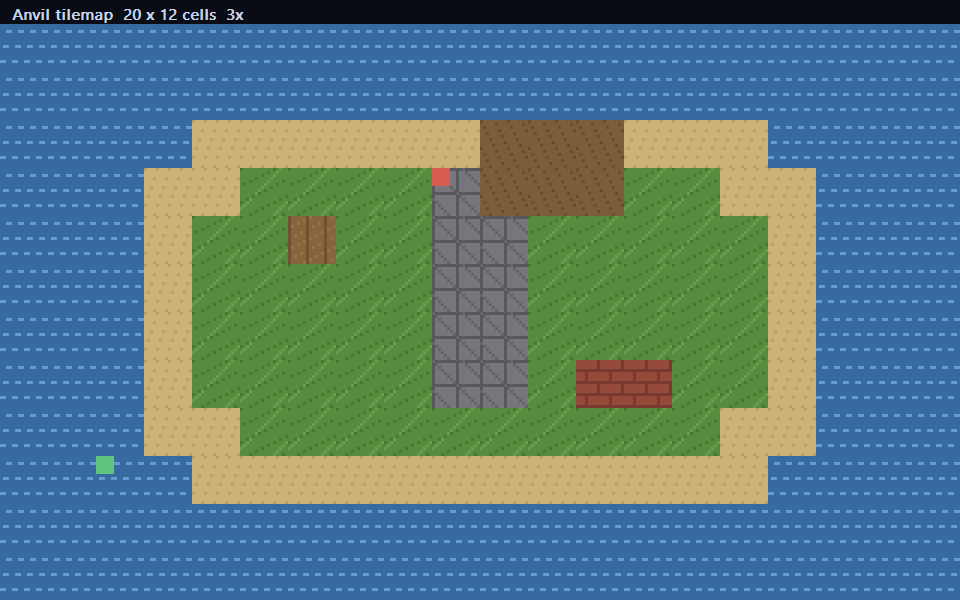
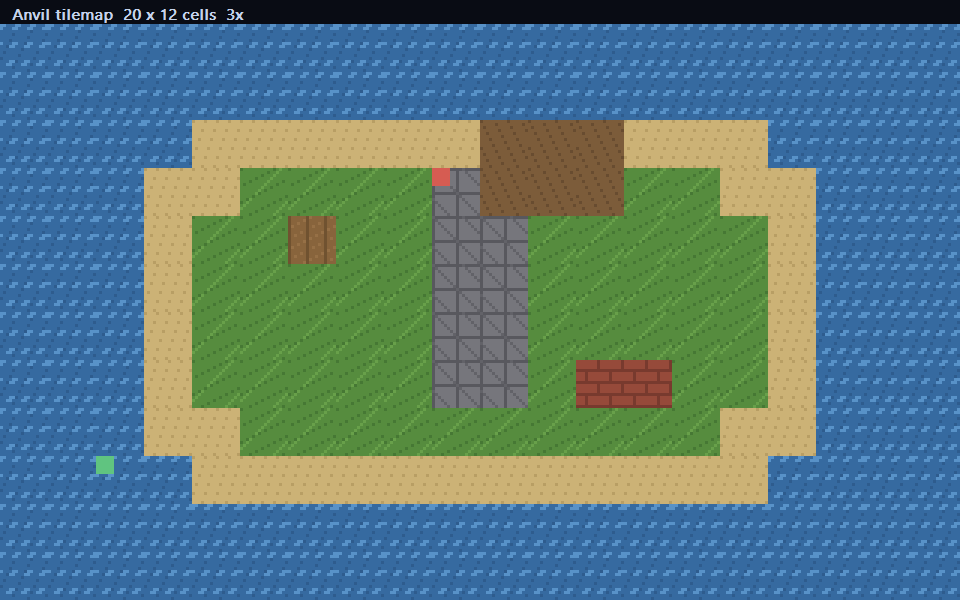
Animate tiles by row-wrapping within the tileset (8.14)

Changed region(s): [[0.0, 0.03, 1.0, 0.99]]

diff --git a/vscode-extension/scripts/validate.js b/vscode-extension/scripts/validate.js
@@ -161,6 +161,7 @@ async function main() {
   expect('set map = tilemap_new(sheet, 16, 16, 20, 12)', 'tilemap_new', 'support.function.anvil');
   expect('say tilemap_collide(map, 0, 0, 8, 8, 1)', 'tilemap_collide', 'support.function.anvil');
   expect('set ok = tilemap_solid(map, 3, 1)', 'tilemap_solid', 'support.function.anvil');
+  expect('set ok = tilemap_animate(map, 16, 2, 0.8)', 'tilemap_animate', 'support.function.anvil');
   expect('set var(ok) = shadow(1)', 'shadow', 'support.function.anvil');
   expect('set var(size) = 1.8', '1.8', 'constant.numeric.float.anvil');
   expect('set var(size) = 18', '18', 'constant.numeric.integer.anvil');

diff --git a/tests/test_tilemap.py b/tests/test_tilemap.py
@@ -232,6 +232,77 @@ EXPECTED_COLLISION = [
     "cell -1",
 ]
 
+ANIMATION_PROGRAM = "\n".join(
+    (
+        "fn(main)",
+        '  set var(sheet) = image_load("tiles.bmp")',
+        "  set var(map) = tilemap_new(var(sheet), 8, 8, 4, 3)",
+        # A tiny frame rate pins frame 0, so the headless values are stable.
+        "  say tilemap_animate(var(map), 3, 2, 0.000001)",
+        '  say "frame " & tilemap_frame(var(map), 3)',
+        '  say "frame " & tilemap_frame(var(map), 0)',
+        "  say tilemap_animate(var(map), 3, 0, 6)",
+        "  say tilemap_animate(var(map), 3, 5, 6)",
+        "  say tilemap_animate(var(map), 70, 2, 6)",
+        "  say tilemap_animate(var(map), -1, 2, 6)",
+        "  say tilemap_animate(var(map), 3, 2, 0)",
+        "  say tilemap_animate(var(map), 3, 1, 6)",
+        '  say "frame " & tilemap_frame(var(map), 3)',
+        "  say tilemap_free(var(map))",
+        '  say "frame " & tilemap_frame(var(map), 3)',
+        "end",
+        "call fn(main)",
+        "",
+    )
+)
+
+EXPECTED_ANIMATION = [
+    "1",
+    "frame 3",
+    "frame 0",
+    "0",
+    "0",  # five frames do not fit a four-tile row
+    "0",
+    "0",
+    "0",
+    "1",
+    "frame 3",
+    "1",
+    "frame -1",
+]
+
+ANIMATED_DRAW_PROGRAM = "\n".join(
+    (
+        "scene 2d",
+        "clear rgba(0, 0, 0, 255)",
+        'set var(sheet) = image_load("tiles.bmp")',
+        "set var(map) = tilemap_new(var(sheet), 8, 8, 1, 1)",
+        "set var(ok) = tilemap_set(var(map), 0, 0, 3)",
+        # One frame per second, two frames: white (tile 3) at t<1, then the
+        # row wraps to red (tile 0) from t>=1.
+        "set var(anim) = tilemap_animate(var(map), 3, 2, 1)",
+        "set var(frame) = 0",
+        "set var(early) = -1",
+        "set var(late) = -1",
+        "",
+        "fn(draw)",
+        "  add var(frame) 1",
+        "  set var(drawn) = tilemap_draw(var(map), 0, 0, 8)",
+        "  if var(frame) = 5",
+        "    set var(cap) = frame_capture()",
+        "    set var(early) = image_pixel(var(cap), 10, 10)",
+        "  end",
+        "  if var(frame) = 75",
+        "    set var(cap) = frame_capture()",
+        "    set var(late) = image_pixel(var(cap), 10, 10)",
+        '    say "early " & var(early)',
+        '    say "late " & var(late)',
+        "  end",
+        "end",
+        "",
+    )
+)
+
 class TilemapDrawTests(unittest.TestCase):
     def test_cells_land_on_the_expected_pixels(self) -> None:
         with tempfile.TemporaryDirectory(ignore_cleanup_errors=True) as temp:
@@ -318,6 +389,52 @@ class TilemapCollisionTests(unittest.TestCase):
             combined = build.stdout + build.stderr
             self.assertIn("'tilemap_collide' is not available in the wasm backend yet", combined)
             self.assertIn(":3:", combined)
+
+
+
+class TilemapAnimationTests(unittest.TestCase):
+    def test_animation_bounds_and_disabling(self) -> None:
+        with tempfile.TemporaryDirectory(ignore_cleanup_errors=True) as temp:
+            root = pathlib.Path(temp)
+            executable = build(root, ANIMATION_PROGRAM, "anim")
+            run = subprocess.run(
+                [str(executable)], cwd=root, capture_output=True, text=True, timeout=60
+            )
+            self.assertEqual(run.returncode, 0, run.stderr)
+            self.assertEqual(run.stdout.splitlines(), EXPECTED_ANIMATION)
+
+    def test_the_current_frame_is_drawn_and_wraps_at_the_row_end(self) -> None:
+        with tempfile.TemporaryDirectory(ignore_cleanup_errors=True) as temp:
+            root = pathlib.Path(temp)
+            executable = build(root, ANIMATED_DRAW_PROGRAM, "animdraw")
+            process = subprocess.Popen(
+                [str(executable)],
+                cwd=root,
+                stdout=subprocess.PIPE,
+                stderr=subprocess.PIPE,
+                text=True,
+            )
+            lines: list[str] = []
+            assert process.stdout is not None
+            deadline = time.monotonic() + 60
+            try:
+                for line in process.stdout:
+                    lines.append(line.rstrip("\r\n"))
+                    if line.startswith("late") or time.monotonic() > deadline:
+                        break
+            finally:
+                process.kill()
+                process.wait(timeout=30)
+            values: dict[str, int] = {}
+            for line in lines:
+                key, _, value = line.partition(" ")
+                if key in ("early", "late"):
+                    values[key] = int(float(value))
+            self.assertEqual(sorted(values), ["early", "late"], lines)
+            # Frame 5 is under one second: the base tile, white.
+            self.assertEqual(values["early"] & 0xFFFFFF, WHITE)
+            # Frame 75 is past one second: frame 1 wraps to tile 0, red.
+            self.assertEqual(values["late"] & 0xFFFFFF, RED)
 
 
 

diff --git a/runtime/anvil_runtime.c b/runtime/anvil_runtime.c
@@ -1695,6 +1695,8 @@ typedef struct {
   int tiles_per_row;
   int *cells;
   unsigned char *solid; /* bitset of solid tile indices, allocated on demand */
+  unsigned short *anim_frames; /* per-tile frame count, 0 = not animated */
+  float *anim_fps;
 } AnvilTilemap;
 
 static AnvilTilemap anvil_tilemaps[ANVIL_TILEMAPS];
@@ -1796,6 +1798,8 @@ double anvil_tilemap_free(double handle) {
     return 0.0;
   free(map->cells);
   free(map->solid);
+  free(map->anim_frames);
+  free(map->anim_fps);
   uint32_t generation = map->generation;
   memset(map, 0, sizeof(*map));
   map->generation = generation;
@@ -1972,6 +1976,77 @@ double anvil_tilemap_collide(double handle, double x, double y, double width,
   return 0.0;
 }
 
+/* Tile animations are a render-time substitution: the cell keeps its base
+   tile (so solid flags and tilemap_get stay stable) and the draw maps it to
+   the current frame. Frames advance left to right inside the base tile's row
+   of the sheet and wrap at the row end, so an animation can never bleed into
+   the row below. Like the solid bitset, the tables are allocated on demand. */
+static int anvil_tilemap_anim_ensure(AnvilTilemap *map) {
+  if (map->anim_frames)
+    return 1;
+  if (map->tiles > 1000000) {
+    anvil_tilemap_error_text =
+        "the tileset has too many tiles to animate (over 1,000,000)";
+    return 0;
+  }
+  size_t count = (size_t)map->tiles;
+  map->anim_frames = (unsigned short *)calloc(count ? count : 1u,
+                                              sizeof(unsigned short));
+  map->anim_fps = (float *)calloc(count ? count : 1u, sizeof(float));
+  if (!map->anim_frames || !map->anim_fps) {
+    free(map->anim_frames);
+    free(map->anim_fps);
+    map->anim_frames = NULL;
+    map->anim_fps = NULL;
+    anvil_tilemap_error_text = "there is not enough memory for tile animation";
+    return 0;
+  }
+  return 1;
+}
+
+static int anvil_tilemap_frame_at(const AnvilTilemap *map, int tile) {
+  if (!map->anim_frames || tile < 0 || tile >= map->tiles)
+    return tile;
+  int frames = (int)map->anim_frames[tile];
+  if (frames <= 1)
+    return tile;
+  double fps = (double)map->anim_fps[tile];
+  if (!(fps > 0.0))
+    return tile;
+  int column = tile % map->tiles_per_row;
+  int step = (int)fmod(floor(anvil_elapsed_seconds * fps), (double)frames);
+  if (step < 0)
+    step = 0;
+  return tile - column + (column + step) % map->tiles_per_row;
+}
+
+double anvil_tilemap_animate(double handle, double tile, double frames,
+                             double fps) {
+  AnvilTilemap *map = anvil_tilemap_from_handle(handle);
+  if (!map || !anvil_tilemap_tile_ok(map, tile) ||
+      tile == (double)ANVIL_TILEMAP_EMPTY)
+    return 0.0;
+  if (!isfinite(frames) || floor(frames) != frames || frames < 1.0 ||
+      frames > (double)map->tiles_per_row || frames > 65535.0)
+    return 0.0;
+  if (!isfinite(fps) || fps <= 0.0)
+    return 0.0;
+  if (!anvil_tilemap_anim_ensure(map))
+    return 0.0;
+  int index = (int)tile;
+  map->anim_frames[index] = (unsigned short)(frames <= 1.0 ? 0.0 : frames);
+  map->anim_fps[index] = frames <= 1.0 ? 0.0f : (float)fps;
+  return 1.0;
+}
+
+double anvil_tilemap_frame(double handle, double tile) {
+  AnvilTilemap *map = anvil_tilemap_from_handle(handle);
+  if (!map || !anvil_tilemap_tile_ok(map, tile) ||
+      tile == (double)ANVIL_TILEMAP_EMPTY)
+    return -1.0;
+  return (double)anvil_tilemap_frame_at(map, (int)tile);
+}
+
 double anvil_tilemap_draw(double handle, double x, double y, double scale) {
   AnvilTilemap *map = anvil_tilemap_from_handle(handle);
   if (!map) {
@@ -1993,6 +2068,10 @@ double anvil_tilemap_draw(double handle, double x, double y, double scale) {
   for (int row = 0; row < map->rows; ++row) {
     for (int column = 0; column < map->columns; ++column) {
       int tile = map->cells[(size_t)row * (size_t)map->columns + (size_t)column];
+      if (tile < 0 || tile >= map->tiles)
+        continue;
+      /* Animated tiles draw their current frame; the cell keeps its base. */
+      tile = anvil_tilemap_frame_at(map, tile);
       if (tile < 0 || tile >= map->tiles)
         continue;
       double dx = x + (double)column * step_x;

diff --git a/compiler/expressions.py b/compiler/expressions.py
@@ -233,6 +233,8 @@ BUILTINS = {
     "tilemap_is_solid": (2, 2),
     "tilemap_cell": (4, 4),
     "tilemap_collide": (6, 6),
+    "tilemap_animate": (4, 4),
+    "tilemap_frame": (2, 2),
     "tilemap_error": (0, 0),
     "frame_capture": (0, 0),
     "sprite_batch": (1, 1),
@@ -341,6 +343,8 @@ BUILTIN_C_NAMES = {
     "tilemap_is_solid": "anvil_tilemap_is_solid",
     "tilemap_cell": "anvil_tilemap_cell",
     "tilemap_collide": "anvil_tilemap_collide",
+    "tilemap_animate": "anvil_tilemap_animate",
+    "tilemap_frame": "anvil_tilemap_frame",
     "tilemap_error": "anvil_tilemap_error",
     "frame_capture": "anvil_frame_capture",
     "sprite_batch": "anvil_sprite_batch",

diff --git a/runtime/anvil_runtime.h b/runtime/anvil_runtime.h
@@ -98,6 +98,9 @@ double anvil_tilemap_is_solid(double handle, double tile);
 double anvil_tilemap_cell(double handle, double x, double y, double scale);
 double anvil_tilemap_collide(double handle, double x, double y, double width,
                              double height, double scale);
+double anvil_tilemap_animate(double handle, double tile, double frames,
+                             double fps);
+double anvil_tilemap_frame(double handle, double tile);
 double anvil_tilemap_draw(double handle, double x, double y, double scale);
 const char *anvil_tilemap_error(void);
 

diff --git a/compiler/common.py b/compiler/common.py
@@ -167,6 +167,8 @@ RUNTIME_C_NAMES = {
     "anvil_tilemap_is_solid",
     "anvil_tilemap_cell",
     "anvil_tilemap_collide",
+    "anvil_tilemap_animate",
+    "anvil_tilemap_frame",
     "anvil_tilemap_error",
     "anvil_image_width",
     "anvil_buffer",

diff --git a/docs/PART8_EVIDENCE.md b/docs/PART8_EVIDENCE.md
@@ -17,7 +17,7 @@ for the headless/interactive split and the recorded environment.
 | 8.11 Window loop and flicker | Partial | Buffered presentation with visible-pixel checks, rapid resize, GDI-count checks, minimize/restore repaint, close, injected backbuffer-allocation failure, and `window_on_top`/`window_fullscreen` verified against live Win32 styles and rectangle (`tests/test_native_window.py`); keyboard/mouse edge state (`test_native_keyboard`, `test_native_mouse`) | Occlusion and DPI changes are not covered; no manual visual run this session |
 | 8.12 Browser target | Partial | `--backend wasm` compiles a console subset and 2D scenes with clang/wasm-ld into `program.wasm` plus a generated canvas host page; the freestanding runtime imports only `env` functions (write, canvas primitives, input setters, save storage). Canvas 2D (`clear`/`rect`/`circle`/`line`/`text`/`present`) and the `anvil_frame` loop are verified by recorded draw streams and by opening the page in Chromium; keyboard, mouse, wheel and `time()`/`delta()` are verified with DOM events in Chromium (`d9d308a`); `sin`/`cos`/`rnd` match the C backend byte for byte, including `sin(1e6)` (`34bc2b2`); typed saves round-trip through `localStorage` with the C runtime's error names and persist across separate Node runs (`f236793`); the text helpers, `ord`/`chr`, `noise` and `fbm` match the C backend byte for byte (`3e17017`, Batch 56); traps are reported against Anvil function names and declaration lines through a generated map (`tests/test_wasm.py`), one baked music track plays through Web Audio with length/position/volume and loop wrapping (Batch 67), and `scene 3d` renders cube/plane/sphere and compile-time-baked glTF models with the C runtime's camera basis and projection, overhead shadows (a separate draw layer so the floor cannot cover them), and bounding-sphere culling for models, rendered by WebGL with a real depth buffer and a painter fallback for Node and `?painter=1` (Batches 64-67), verified by the 14-triangle draw summary and a Chromium screenshot; sprites are baked from literal `image_load()` paths at build time (8/24/32-bit BMP) and drawn through the canvas with tint/flip/rotation and atlas regions, literal `sound_load()` WAVs are baked as int16 samples and played through Web Audio with looping, volume, pan, pitch, duration and three mixer groups over a gesture-resumed context (recorded play streams plus Chromium checks that the context reaches `running` and a looping voice survives past its source length), verified by recorded draw streams and by sampled pixels in Chromium (Batches 59-60); all covered by `tests/test_wasm.py` (17 tests) | No Web Audio, IndexedDB, source maps or WebGL/3D; no `tan`, 4-bit BMPs, non-literal asset paths, streaming music, `ray_sphere`, a depth buffer in 3D, true streaming music (the browser track is baked), or physics outside the ported 2D solver; 1 MiB bump allocator; no `include` in the wasm pipeline; host page is fixed at 960x600 |
 | 8.13 3D content pipeline | Partial | `scene 3d`, perspective camera, plane/cube/sphere and `ray_sphere` with CPU BVH and a 32-sphere batch; `examples/first_world.ANVL` builds and is run interactively (not automated); compile-time glTF import (`model_draw`) bakes node transforms, material/vertex colours, a bounding sphere and up to 200k triangles from `.gltf` or `.glb` into the executable, with per-frame bounding-sphere culling (20 off-screen 2,048-triangle models: 3.83 ms -> 0.20 ms per frame, 18.9x) and overhead flattened shadows for cubes and models (`tests/test_shadows.py`) with loader unit tests, a located missing-file error and pixel tests for shading, depth ordering and GLB rendering (`tests/test_gltf_model.py`, `docs/MODELS.md`) | No animation, batching or GPU path; no skins, morph targets or textures; shadows are overhead-only (no light direction or cone) |
-| 8.14 2D, audio, physics, network, packaging | Partial, commands complete | BMP sprite builtins with documented limits and source-located errors (`tests/test_image_error.py`, `tests/test_compiler.py`); sprite tint, flip, centred rotation and atlas-region drawing verified against live window pixels (`tests/test_sprite_draw.py`); bounded 4,096-particle system with gravity, fade and a post-draw pass (`tests/test_particles.py`); 2D camera pan/zoom with mouse inverse mapping and zoom-scaled glyphs, verified against pixels (`tests/test_camera2d.py`, `tests/test_text_zoom.py`); tilemaps: a 16-slot grid of up to 128x128 cells that names tiles in a tileset image, with `tilemap_new/free/columns/rows/tiles/set/get/fill/area/draw/error`, camera-aware culled drawing, per-tile solid flags and `tilemap_cell`/`tilemap_collide` AABB queries, and a wasm refusal (`tests/test_tilemap.py`, `examples/tilemap_demo.ANVL`); bounded WAV audio (PCM and 4-bit IMA ADPCM, with `sound_duration`/`sound_rms` queries) with 16 slots, 8 voices, 48 MiB decoded budget, volume/pan/pitch, looping, device-loss fallback and `sound_error()` diagnostics (`tests/test_audio.py`), plus three mixer groups and a master gain with per-group stop (`tests/test_audio_groups.py`) and streaming music (PCM or ADPCM) decoded from disk with looping, position/length and named errors (`tests/test_music.py`, `tests/test_wav_adpcm.py`); typed key/value saves with atomic writes, magic/type bytes, slot-name validation, `%LOCALAPPDATA%\Anvil\<project>` storage and `save_error()` diagnostics (`tests/test_saves.py`); 2D physics with restitution and friction (`tests/test_compiler.py`); UDP double transport with malformed-packet fuzzing (`tests/test_net_fuzz.py`, `031bfb0`); `--package` with dry run, asset validation and hashed manifest (`79d8af3`); `new`/`run`/`build`/`test`/`format`/`clean`/`doctor`/`package` all exist (`75a4805`, `5967fdb`, `44dcd1b`) | Save-file migration/versioning and multi-value blobs; audio is complete for this milestone; no batching; transport is one-peer unauthenticated UDP |
+| 8.14 2D, audio, physics, network, packaging | Partial, commands complete | BMP sprite builtins with documented limits and source-located errors (`tests/test_image_error.py`, `tests/test_compiler.py`); sprite tint, flip, centred rotation and atlas-region drawing verified against live window pixels (`tests/test_sprite_draw.py`); bounded 4,096-particle system with gravity, fade and a post-draw pass (`tests/test_particles.py`); 2D camera pan/zoom with mouse inverse mapping and zoom-scaled glyphs, verified against pixels (`tests/test_camera2d.py`, `tests/test_text_zoom.py`); tilemaps: a 16-slot grid of up to 128x128 cells that names tiles in a tileset image, with `tilemap_new/free/columns/rows/tiles/set/get/fill/area/draw/error`, camera-aware culled drawing, per-tile solid flags, `tilemap_cell`/`tilemap_collide` AABB queries and row-wrapping tile animation (`tilemap_animate`/`tilemap_frame`), and a wasm refusal (`tests/test_tilemap.py`, `examples/tilemap_demo.ANVL`); bounded WAV audio (PCM and 4-bit IMA ADPCM, with `sound_duration`/`sound_rms` queries) with 16 slots, 8 voices, 48 MiB decoded budget, volume/pan/pitch, looping, device-loss fallback and `sound_error()` diagnostics (`tests/test_audio.py`), plus three mixer groups and a master gain with per-group stop (`tests/test_audio_groups.py`) and streaming music (PCM or ADPCM) decoded from disk with looping, position/length and named errors (`tests/test_music.py`, `tests/test_wav_adpcm.py`); typed key/value saves with atomic writes, magic/type bytes, slot-name validation, `%LOCALAPPDATA%\Anvil\<project>` storage and `save_error()` diagnostics (`tests/test_saves.py`); 2D physics with restitution and friction (`tests/test_compiler.py`); UDP double transport with malformed-packet fuzzing (`tests/test_net_fuzz.py`, `031bfb0`); `--package` with dry run, asset validation and hashed manifest (`79d8af3`); `new`/`run`/`build`/`test`/`format`/`clean`/`doctor`/`package` all exist (`75a4805`, `5967fdb`, `44dcd1b`) | Save-file migration/versioning and multi-value blobs; audio is complete for this milestone; no batching; transport is one-peer unauthenticated UDP |
 | 8.15 Testing, security, efficiency | Partial | `docs/TESTING.md` labels the 131 headless/interactive modules; packet fuzzing; capability matrix under test; per-line output flush (`tests/test_output_flush.py`); recursion bound; package asset validation; compile-time, image-size and runtime frame-time budgets (idle, overdraw, text, particles, 3D) published in `tools/bench_budgets.json` and enforced by `tests/test_perf_thresholds.py`, `tests/test_runtime_budget.py`, `python tools/bench_anvil.py --check` and `python tools/bench_runtime.py --check`; `frame_tick()`/`frame_render()`/`frame_present()` report the last frame's phases, and `bench_runtime` budgets scene work and present separately because a GDI blit occasionally blocks ~4 ms on the compositor; `tools/bench_memory.py` samples the compile process tree (peak 113 MB, generated C 11-15 KB, executable 187-206 KB) each scene's runtime working set (17.2-17.3 MB), and an `assets` scene that loads eight 64x64 BMPs and two 0.25 s WAVs and reports `memory_images`/`memory_audio`/`memory_video` (131,072 / 576,000 / 2,304,000 bytes) plus their values after destroy and enforces `tools/mem_budgets.json` (`tests/test_memory_budget.py`); `tools/bench_input.py` posts key messages to a real window and measures key-to-`pressed(A)` latency (p50 25.5-29.4 ms, p95 43.3-51.6 ms over 20 presses) with `tools/input_budgets.json` and `tests/test_input_latency.py` | Measured with `--timings`: parse+generate ~3 ms, cold C build ~400 ms after the toolset environment is cached, cache hit ~170 ms. Runtime p50 on the recorded machine: idle 0.38 ms, 2D overdraw (1,200 rects + 120 circles) 3.62 ms, 40 text lines 1.12 ms, about 2,400 live particles 0.88 ms, 20 cubes + plane 2.88 ms; budgets are 2.5x the measured medians. `memory_images`/`memory_audio`/`memory_video`/`memory_total` expose per-class byte counts and the fixed 2,304,000-byte backbuffer (`tests/test_memory_builtins.py`), and `memory_report()` names each live image/sound with the Anvil `file:line` that allocated it (`tests/test_memory_report.py`). Not covered: full per-allocation call stacks (only the load call site is recorded), GPU VRAM beyond the backbuffer, audio/network memory scenes, and a manual visual run. Windows x64 only |
 | 8.16 Delivery order and evidence | This ledger plus generated matrix | `docs/CAPABILITY_MATRIX.md` now measures C, native and wasm: 12 of 14 cases run on all three backends, and all 14 run on C and wasm, `docs/AUTONOMOUS_DEVELOPMENT_PROGRESS.md` batches 14–22, commit list below | Browser and 3D rows remain open before the delivery order can complete |
 | 8.17 New-user trial | Partially automated | `tests/test_first_hour.py` runs the documented path end to end: `--new`, `--check`, build with `--timings`, run, `--format`, `--package-dry-run`, `--package`, `--doctor`, `--explain` | Watching a real new programmer and recording pauses and repairs is still outstanding |

diff --git a/docs/LANGUAGE_SPEC.md b/docs/LANGUAGE_SPEC.md
@@ -198,7 +198,7 @@ All built-ins return a numeric result unless otherwise stated. Calls use parenth
 | Clock/input | `time()`; `delta()`; `frame_tick()`; `frame_render()`; `frame_present()`; `pressed(key)`; `held(key)`; `mouse_x()`; `mouse_y()`; `mouse_pressed(button)`; `mouse_held(button)`; `mouse_wheel()` | Runtime elapsed time, fixed-step delta, the last frame's update (tick), draw (render) and presentation times in seconds, keyboard state, mouse position/button state, and wheel delta. Keys include the symbolic tokens `A`–`Z`, `SPACE`, arrows, `ENTER`, and `ESCAPE`; key inputs are numeric values and may also be supplied as numeric virtual-key codes. Mouse buttons are string literals `"left"`, `"right"`, or `"middle"`. Position is in fixed 960×600 virtual framebuffer pixels, with `-1` returned in letterbox bars or outside the window. Pressed state and wheel delta last through the next fixed update; held state ends on release or window focus loss. |
 | Resource accounting | `memory_images()`; `memory_audio()`; `memory_video()`; `memory_total()`; `memory_report()` | Bytes currently held by each resource class. `memory_images` is the sum of decoded image pixels (4 bytes per pixel) and falls as images are destroyed; `memory_audio` is the decoded sample bytes of loaded sounds (48 kHz stereo 16-bit) and falls as sounds are destroyed; `memory_video` is the fixed backbuffer (960x600x4 = 2,304,000 bytes); `memory_total` sums the three. These are read-only counters for budgets, tests and in-game HUDs; the streaming-music staging buffer (32 KiB) is static and is not counted. `memory_report()` prints one row per live image and sound with its dimensions or frame count, its bytes, and the Anvil `file:line` and path that allocated it, then a `live allocations` total, and returns the live count so a program can warn above a threshold. The site is captured by the compiler, so loads through a literal `image_load()`/`sound_load()` are named; a handle loaded before the site fields existed reports `?:0`. C-backend only: `--backend wasm` raises a located "not available" diagnostic (a browser build bakes its assets at compile time and has no per-load call site). |
 | Window flags | `window_on_top(on)`; `window_fullscreen(on)` | `1` turns the flag on, `0` off, and both return `1` on success or `0` when there is no window. Always-on-top asks the OS to keep the window above other applications; turning it off lets the user click another program and have the game go behind it. Fullscreen switches the window to a borderless `WS_POPUP` covering the monitor and restores the previous style and rectangle when turned off; the fixed framebuffer is letterboxed as usual. Both are C-backend only and raise a located diagnostic under `--backend native`. |
-| Tilemaps | `tilemap_new(image,tile_w,tile_h,columns,rows)`; `tilemap_free(h)`; `tilemap_columns(h)`; `tilemap_rows(h)`; `tilemap_tiles(h)`; `tilemap_set(h,col,row,tile)`; `tilemap_get(h,col,row)`; `tilemap_fill(h,tile)`; `tilemap_area(h,tile,col,row,columns,rows)`; `tilemap_draw(h,x,y,scale)`; `tilemap_solid(h,tile,on)`; `tilemap_is_solid(h,tile)`; `tilemap_cell(h,x,y,scale)`; `tilemap_collide(h,x,y,w,h,scale)`; `tilemap_error()` | A grid of cells naming tiles in an image sheet: tile `t` is at `(t % tiles_per_row, t / tiles_per_row)` in the sheet, and tile `-1` is empty. `tilemap_new` returns a generational handle or 0 when the image, tile size (whole pixels, at least 1, no larger than the sheet) or grid (1..128 cells each side) is invalid; 16 maps can live at once. `tilemap_set` rejects cells or tiles outside their range and accepts -1 to clear a cell; `tilemap_fill` rewrites every cell and `tilemap_area` paints a rectangle clipped to the grid. `tilemap_draw` draws every non-empty cell at `(x + col*tile_w*scale, y + row*tile_h*scale)`, honours the 2D camera and sprite batching, and skips cells that cannot touch the framebuffer; it returns 1 for a valid call and 0 when there is no window, the tileset was destroyed or the arguments are not finite. `tilemap_columns`/`rows`/`tiles` return 0 and `tilemap_get` returns -1 for an invalid handle. `tilemap_solid` marks a tile index solid (the empty tile cannot be solid) and `tilemap_is_solid` reads it back; the per-map bitset is allocated the first time a map marks a tile, so maps that never collide cost nothing. `tilemap_cell` returns the tile under a world point, or -1 outside the grid. `tilemap_collide` tests the world rectangle `[x, x+w) x [y, y+h)` against solid cells, treating the map as drawn at the origin with `scale` (the same placement as `tilemap_draw(map, 0, 0, scale)`), and returns 1 when any overlapped cell is solid; a rectangle that misses the grid returns 0. `tilemap_error()` names the last draw failure. C-backend only: `--backend wasm` raises a located "not available" diagnostic. |
+| Tilemaps | `tilemap_new(image,tile_w,tile_h,columns,rows)`; `tilemap_free(h)`; `tilemap_columns(h)`; `tilemap_rows(h)`; `tilemap_tiles(h)`; `tilemap_set(h,col,row,tile)`; `tilemap_get(h,col,row)`; `tilemap_fill(h,tile)`; `tilemap_area(h,tile,col,row,columns,rows)`; `tilemap_draw(h,x,y,scale)`; `tilemap_solid(h,tile,on)`; `tilemap_is_solid(h,tile)`; `tilemap_cell(h,x,y,scale)`; `tilemap_collide(h,x,y,w,h,scale)`; `tilemap_animate(h,tile,frames,fps)`; `tilemap_frame(h,tile)`; `tilemap_error()` | A grid of cells naming tiles in an image sheet: tile `t` is at `(t % tiles_per_row, t / tiles_per_row)` in the sheet, and tile `-1` is empty. `tilemap_new` returns a generational handle or 0 when the image, tile size (whole pixels, at least 1, no larger than the sheet) or grid (1..128 cells each side) is invalid; 16 maps can live at once. `tilemap_set` rejects cells or tiles outside their range and accepts -1 to clear a cell; `tilemap_fill` rewrites every cell and `tilemap_area` paints a rectangle clipped to the grid. `tilemap_draw` draws every non-empty cell at `(x + col*tile_w*scale, y + row*tile_h*scale)`, honours the 2D camera and sprite batching, and skips cells that cannot touch the framebuffer; it returns 1 for a valid call and 0 when there is no window, the tileset was destroyed or the arguments are not finite. `tilemap_columns`/`rows`/`tiles` return 0 and `tilemap_get` returns -1 for an invalid handle. `tilemap_solid` marks a tile index solid (the empty tile cannot be solid) and `tilemap_is_solid` reads it back; the per-map bitset is allocated the first time a map marks a tile, so maps that never collide cost nothing. `tilemap_cell` returns the tile under a world point, or -1 outside the grid. `tilemap_collide` tests the world rectangle `[x, x+w) x [y, y+h)` against solid cells, treating the map as drawn at the origin with `scale` (the same placement as `tilemap_draw(map, 0, 0, scale)`), and returns 1 when any overlapped cell is solid; a rectangle that misses the grid returns 0. `tilemap_animate` makes a tile cycle through `frames` consecutive indices at `fps` frames per second; frames advance left to right within the tile's row of the sheet and wrap at the row end, so an animation cannot bleed into the row below, and `frames` must fit that row (1 disables the animation). Animation is a render-time substitution: the cell keeps its base tile, so `tilemap_get`, `tilemap_cell`, solid flags and collision all keep answering with the base, and `tilemap_frame` reports the index currently drawn. `tilemap_error()` names the last draw failure. C-backend only: `--backend wasm` raises a located "not available" diagnostic. |
 | 2D camera | `camera2d(pan_x,pan_y,zoom)` | Moves and scales every 2D draw (rect, circle, line, text position, sprite draws) with `screen = (world - pan) * zoom`; the default `0,0,1` is the identity, so existing programs are unchanged. `zoom` is clamped to 0.05–20 and a non-finite or non-positive zoom returns 0 and leaves the camera unchanged. The camera also inverts the mapping for `mouse_x`/`mouse_y`, so pointer coordinates are world coordinates. Text moves with the camera and its glyphs scale with the zoom (20 px at 1×, clamped to 6–720 px). 3D drawing is unaffected. C-backend only: `--backend native` raises a located "not available" diagnostic. |
 | Particles | `particle_emit(x,y,vx,vy,life,size,r,g,b)`; `particle_count()`; `particle_clear()`; `particle_gravity(gy)` | A fixed pool of 4,096 particles. `particle_emit` returns 1, or 0 when the pool is full or an argument is non-finite, `life <= 0` or `size <= 0`; position is world-space (the 2D camera applies), velocity is pixels per second, `life` is seconds, `size` is the square side in pixels and colours clamp to 0–255. Particles advance in every fixed update by velocity, with `particle_gravity` adding a constant vertical acceleration (pixels per second squared, positive is down). They are drawn after the program's own draw pass as fading squares, with alpha going from 255 to 0 over their life, so they sit above the scene. `particle_count()` is the live count, `particle_clear()` empties the pool and returns how many it removed, and `particle_gravity` returns the value it applied. Destroying the window empties the pool. C-backend only: `--backend native` raises a located "not available" diagnostic. |
 | 2D image assets | `image_load(path)`; `image_width(handle)`; `image_height(handle)`; `image_draw(handle,x,y)`; `image_draw_scaled(handle,x,y,width,height)`; `image_draw_rotated(handle,cx,cy,degrees,scale)`; `image_draw_region(handle,sx,sy,sw,sh,dx,dy,dw,dh)`; `image_tint(handle,r,g,b)`; `image_flip(handle,flip_x,flip_y)`; `image_destroy(handle)` | `image_load` accepts uncompressed 24-bit/32-bit BMP paths relative to process working directory. It returns a positive generational handle or `0` on failure; the first allocations use handles 1–64, and reusing a released slot gets a new value so stale handles stay invalid. A 32-bit file with all alpha bytes clear is treated as opaque. Decoded image limits are 8,192 pixels per side, 16,777,216 pixels per image, and 128 MiB total. Draw operations alpha-blend with nearest-neighbor scaling and clip to the fixed 960×600 framebuffer. `image_draw_rotated` draws centred on `cx,cy`, rotated clockwise by degrees and scaled uniformly; `image_draw_region` copies an atlas cell: the source rectangle must lie fully inside the image (a rect that does not returns 0 and draws nothing), and it scales into the destination rectangle. `image_tint` multiplies the sprite's colours (0–255 per channel, default 255 is unchanged) and `image_flip` mirrors it horizontally/vertically, both applied by every draw path, with flip mirrored inside an atlas cell, and reset when the image is destroyed. `image_error()` explains the most recent failure and names the exact limit (dimension, pixel count, memory budget, short file). Width/height on an invalid handle return 0; draw/destroy/tint/flip return 1 for valid requests and 0 otherwise. Remaining handles are released when the game closes. |

diff --git a/docs/AUTONOMOUS_DEVELOPMENT_PROGRESS.md b/docs/AUTONOMOUS_DEVELOPMENT_PROGRESS.md
@@ -844,3 +844,11 @@ Animated scenes made the visual gate flaky at exact budgets (particles 22.8% aga
 - **Storage:** the solid flags are a bitset over tile indices, allocated the first time a map marks one, so maps that never collide cost nothing; it is freed with the map. The empty tile `-1` and indices outside the sheet are rejected, and a sheet with over 1,000,000 tiles refuses solid markup rather than allocating an unbounded table.
 - **Placement contract:** collision uses the same rule as `tilemap_draw(map, 0, 0, scale)` — cells are `tile_w*scale` wide with the map anchored at the origin — so the world coordinates a game passes to drawing are the ones it passes to collision. A rectangle that lands entirely outside the grid returns 0, and a zero-size rectangle or zero scale returns 0.
 - **Tests:** `tests/test_tilemap.py` gains a headless collision program asserting the exact 24-value sequence: marking, clearing, rejecting `-1` and out-of-sheet tiles, cell lookups on and off the grid, a hit, two misses, a zero-size rectangle, a zero scale, and a stale handle after `tilemap_free`. A second test checks the wasm refusal names `tilemap_collide` on line 3.
+
+## Batch 84 — animated tiles (8.14)
+
+- **Builtins:** `tilemap_animate(map, tile, frames, fps)` makes a tile cycle through `frames` consecutive indices at `fps` frames per second; `tilemap_frame(map, tile)` reports the index currently drawn. `frames` must fit the tile's row of the sheet (1 disables), `fps` must be positive and finite, and the empty tile or an out-of-sheet index is rejected.
+- **Row wrapping:** frames advance left to right inside the base tile's row and wrap at the row end, so an animation can never bleed into the row below — a 4-wide sheet animating its last tile shows tile `base-3`, not a tile from the next row.
+- **Render-time substitution:** the cell keeps its base tile, so `tilemap_get`, `tilemap_cell`, solid flags and `tilemap_collide` all keep answering with the base. That keeps collision stable while the art moves, which is the property a platformer needs. The frame tables are allocated on first use and freed with the map, like the solid bitset.
+- **Demo:** the tileset gained a fifth row holding two adjacent water frames (tiles 16 and 17); `examples/tilemap_demo.ANVL` fills with tile 16 and animates it at 0.8 fps. The captured frame was inspected by eye and the visual baseline moved to 48 colours / 59.2% content (three consecutive captures agreed exactly, because the 1 s settle always lands in frame 0).
+- **Tests:** `tests/test_tilemap.py` adds a headless bounds/disabling/`tilemap_frame` sequence and a pixel test that draws a 1x1 map whose tile animates white→red once per second, samples frame 5 (white, base tile) and frame 75 (red, wrapped frame) so the drawn tile provably follows the clock.

diff --git a/docs/TESTING.md b/docs/TESTING.md
@@ -102,8 +102,11 @@ remote desktop can prevent window creation:
 - `test_tilemap` — headless API tests (bounds, fill/area, set/get, free,
   stale handles, invalid tiles; solid marking, `tilemap_cell` lookups and
   `tilemap_collide` AABB hits/misses including a zero-size rectangle and a
-  zero scale) plus a pixel test that draws a 3x2 map at 4x, captures the frame
-  and reads back each cell and the cell boundary.
+  zero scale; animation bounds, disabling and the wrapped frame index) plus a
+  pixel test that draws a 3x2 map at 4x, captures the frame and reads back each
+  cell and the cell boundary, and an animated-tile test that samples frame 5
+  (base tile) and frame 75 (wrapped frame) to prove the drawn tile follows the
+  animation clock.
 - `test_memory_report` — builds a headless `fn(main)` program that loads an
   image and a WAV, asserts `memory_report()` names the exact `file:line` and
   byte counts of each live resource, that destroying the image drops it from
